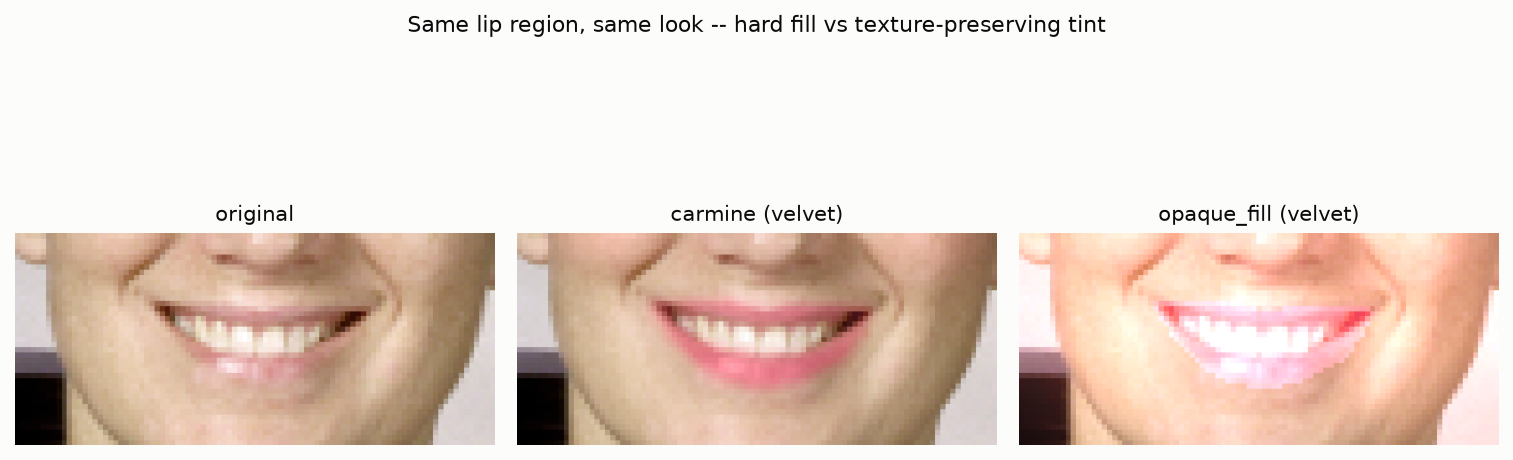
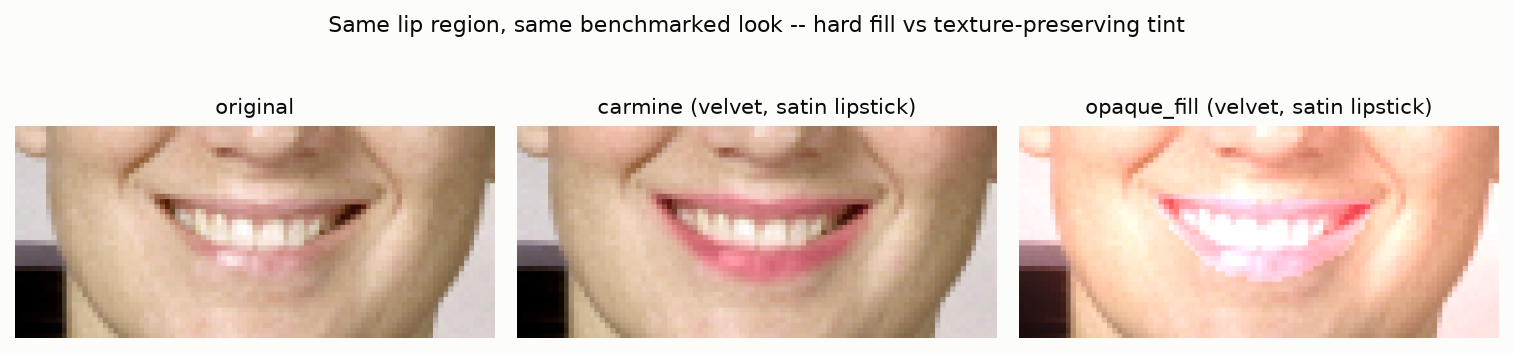
fix: shipped-defaults stability row, diagnostic figure framing

diff --git a/scripts/stability_bench.py b/scripts/stability_bench.py
@@ -41,6 +41,15 @@ drift) still exists and is still unit-tested on constructed cases, but this
 script does not use it for publishing -- it has the same "rewards lag"
 blind spot as raw IoU jitter would, for the same reason.
 
+Two One-Euro configurations are published, not one: `one_euro_best_tuned`
+(the grid-search winner, adopted as `VideoEngine`'s defaults only if it
+clears the 20% jitter-reduction bar) and `one_euro_shipped_defaults` (the
+literal current `OneEuroFilter()` default parameters' own row in the same
+grid). They can differ -- the grid search minimizing jitter doesn't
+necessarily land on whatever's already shipped, and on this clip the two
+tell different stories, which is exactly why both are reported rather than
+just the flattering one.
+
 Usage:
     python scripts/stability_bench.py --out reports
 """
@@ -90,6 +99,16 @@ MIN_CUTOFF_VALUES = [0.5, 1.0, 1.5]
 BETA_VALUES = [0.007, 0.05, 0.2, 0.5]
 DEVIATION_CONSTRAINT_MULTIPLIER = 1.5
 IMPROVEMENT_THRESHOLD_PCT = 20.0
+
+# OneEuroFilter's actual shipped defaults, read from the class itself (not
+# hard-coded) so this can't silently drift out of sync with carmine/filters.py.
+# Must be a point already covered by the grid above.
+_shipped_defaults = OneEuroFilter()
+SHIPPED_MIN_CUTOFF = _shipped_defaults.min_cutoff
+SHIPPED_BETA = _shipped_defaults.beta
+assert SHIPPED_MIN_CUTOFF in MIN_CUTOFF_VALUES and SHIPPED_BETA in BETA_VALUES, (
+    "OneEuroFilter's shipped defaults must be one of the grid-searched points"
+)
 
 
 def _affine_params(t: float, width: int) -> tuple[float, float, float]:
@@ -291,15 +310,54 @@ def main() -> int:
 
     video_ms_per_frame = measure_video_ms_per_frame(frames)
 
+    # `OneEuroFilter`'s actual shipped defaults (see carmine/filters.py) are a
+    # specific point in the same grid we already searched -- surface its own
+    # row explicitly rather than only the best-tuned one, since "one_euro"
+    # unqualified would otherwise read as "what VideoEngine does today",
+    # which the grid-search winner is not.
+    shipped_row = next(
+        g for g in grid_results if g["min_cutoff"] == SHIPPED_MIN_CUTOFF and g["beta"] == SHIPPED_BETA
+    )
+    shipped_deviation_ratio = (
+        shipped_row["deviation_px_iod"] / raw_deviation if raw_deviation > 0 else float("inf")
+    )
+    shipped_jitter_change_pct = (
+        (shipped_row["jitter_px_iod"] - raw_jitter) / raw_jitter * 100.0 if raw_jitter > 0 else 0.0
+    )
+    note += (
+        f" For comparison, OneEuroFilter's actual shipped defaults "
+        f"(min_cutoff={SHIPPED_MIN_CUTOFF}, beta={SHIPPED_BETA}) are worse than doing nothing on "
+        f"this clip: deviation {shipped_deviation_ratio:.1f}x raw, jitter "
+        f"{shipped_jitter_change_pct:+.0f}% vs raw. Smoothing is therefore most useful as an "
+        "opt-in for genuinely jittery cameras, not a free win applied blindly -- on a clip this "
+        "clean, the shipped defaults actively hurt tracking accuracy."
+    )
+
+    ground_truth_caveat = (
+        "ground truth is itself anchored to a real (noisy) frame-0 detection, not a synthetic "
+        "exact position, so the absolute deviation_px_iod numbers above are mildly optimistic "
+        "(frame 0's own detection error isn't counted against anyone); the raw-vs-filtered "
+        "comparison is still fair since every stream shares the same frame-0 anchor."
+    )
+
     stability = {
         "protocol": "ground_truth_affine",
+        "ground_truth_caveat": ground_truth_caveat,
         "raw": {"deviation_px_iod": raw_deviation, "jitter_px_iod": raw_jitter},
-        "one_euro": {
+        "one_euro_best_tuned": {
             "deviation_px_iod": chosen["deviation_px_iod"],
             "jitter_px_iod": chosen["jitter_px_iod"],
             "min_cutoff": chosen["min_cutoff"],
             "beta": chosen["beta"],
             "meets_deviation_constraint": chosen_satisfies_constraint,
+        },
+        "one_euro_shipped_defaults": {
+            "deviation_px_iod": shipped_row["deviation_px_iod"],
+            "jitter_px_iod": shipped_row["jitter_px_iod"],
+            "min_cutoff": SHIPPED_MIN_CUTOFF,
+            "beta": SHIPPED_BETA,
+            "deviation_ratio_vs_raw": shipped_deviation_ratio,
+            "jitter_change_pct_vs_raw": shipped_jitter_change_pct,
         },
         "grid_search": {
             "min_cutoff_values": MIN_CUTOFF_VALUES,
@@ -332,13 +390,19 @@ def main() -> int:
     out_json.write_text(json.dumps(result, indent=2))
     print(f"\nwrote {out_json}")
 
-    print(f"\nraw:      deviation {raw_deviation:.4f} px/iod, jitter {raw_jitter:.4f} px/iod")
+    print(f"\nraw:                    deviation {raw_deviation:.4f} px/iod, jitter {raw_jitter:.4f} px/iod")
     print(
-        f"one_euro: deviation {chosen['deviation_px_iod']:.4f} px/iod, "
+        f"one_euro_best_tuned:    deviation {chosen['deviation_px_iod']:.4f} px/iod, "
         f"jitter {chosen['jitter_px_iod']:.4f} px/iod "
         f"(min_cutoff={chosen['min_cutoff']}, beta={chosen['beta']})"
     )
-    print(f"jitter reduction: {jitter_reduction_pct:+.1f}%  (>= {IMPROVEMENT_THRESHOLD_PCT:.0f}% required to adopt)")
+    print(
+        f"one_euro_shipped_defaults: deviation {shipped_row['deviation_px_iod']:.4f} px/iod "
+        f"({shipped_deviation_ratio:.1f}x raw), jitter {shipped_row['jitter_px_iod']:.4f} px/iod "
+        f"({shipped_jitter_change_pct:+.0f}% vs raw) "
+        f"(min_cutoff={SHIPPED_MIN_CUTOFF}, beta={SHIPPED_BETA})"
+    )
+    print(f"jitter reduction (best tuned): {jitter_reduction_pct:+.1f}%  (>= {IMPROVEMENT_THRESHOLD_PCT:.0f}% required to adopt)")
     print(note)
     print(f"video ms/frame (median): {video_ms_per_frame:.2f}")
     return 0

diff --git a/scripts/make_figures.py b/scripts/make_figures.py
@@ -22,6 +22,7 @@ import numpy as np
 
 ROOT = Path(__file__).resolve().parents[1]
 sys.path.insert(0, str(ROOT / "src"))
+sys.path.insert(0, str(Path(__file__).resolve().parent))
 
 from skimage import data  # noqa: E402
 
@@ -29,6 +30,8 @@ from carmine import baselines, regions  # noqa: E402
 from carmine.engine import apply_look  # noqa: E402
 from carmine.landmarks import FaceLandmarker  # noqa: E402
 from carmine.look import PRESETS  # noqa: E402
+
+from benchmark import benchmark_look  # noqa: E402
 
 FIGDIR = ROOT / "reports" / "figures"
 
@@ -52,19 +55,25 @@ LABELS = {
     "untrained_gan": "Untrained GAN",
     "carmine": "This engine",
 }
+# Order: the two containment metrics first, then lip_luminance_shift in the
+# primary (top-right) slot -- it's the metric that actually distinguishes a
+# hard fill from a soft tint by magnitude, not just direction -- followed by
+# the two blind-spot-prone/diagnostic metrics and identity last.
 METRICS = [
     "pigment_on_target",
     "background_untouched",
+    "lip_luminance_shift",
     "lip_texture_kept",
     "lip_detail_retention",
-    "lip_luminance_shift",
     "identity_ssim",
 ]
 METRIC_TITLES = {
     "pigment_on_target": "Edit energy inside legitimate product regions",
     "background_untouched": "Background pixels left bit-identical",
     "lip_texture_kept": "Lip texture preserved (lightness corr.)",
-    "lip_detail_retention": "Lip high-freq. detail retained (after / before)",
+    "lip_detail_retention": (
+        "Lip detail ratio (diagnostic -- additive fills\npreserve highpass until saturation)"
+    ),
     "lip_luminance_shift": "Lip brightness shift, |ΔL| (lower is better)",
     "identity_ssim": "Identity SSIM vs input",
 }
@@ -157,7 +166,11 @@ def fig_presets_demo(landmarker: FaceLandmarker) -> None:
 
 
 def fig_opacity_compare(landmarker: FaceLandmarker) -> None:
-    """Lip-region crops: original vs carmine vs opaque_fill, same velvet look.
+    """Lip-region crops: original vs carmine vs opaque_fill, the exact
+    benchmarked configuration (velvet + lipstick finish forced to satin +
+    smoothing forced to 0 -- see `benchmark_look()`), so this figure shows
+    the same setup the `lip_detail_retention` / `lip_luminance_shift`
+    numbers were measured under, not a look that merely looks similar.
 
     `pigment_on_target` and `lip_texture_kept` can't tell a hard fill from a
     soft tint when both share the same, correctly-indexed lip region (see
@@ -167,7 +180,7 @@ def fig_opacity_compare(landmarker: FaceLandmarker) -> None:
     """
     astro = cv2.cvtColor(data.astronaut(), cv2.COLOR_RGB2BGR)
     lm = landmarker.detect(astro)
-    look = PRESETS["velvet"]
+    look = benchmark_look()
 
     carmine_out = apply_look(astro, look, landmarks=lm)
     opaque_out = baselines.opaque_fill(astro, lm, look)
@@ -190,18 +203,18 @@ def fig_opacity_compare(landmarker: FaceLandmarker) -> None:
         tile = crop(img)
         h, w = tile.shape[:2]
         tiles.append(cv2.resize(tile, (int(w * height / h), height), interpolation=cv2.INTER_NEAREST))
-    titles = ["original", "carmine (velvet)", "opaque_fill (velvet)"]
+    titles = ["original", "carmine (velvet, satin lipstick)", "opaque_fill (velvet, satin lipstick)"]
 
-    fig, axes = plt.subplots(1, 3, figsize=(3.4 * 3, 3.8))
+    fig, axes = plt.subplots(1, 3, figsize=(3.4 * 3, 2.5))
     for ax, tile, title in zip(axes, tiles, titles):
         ax.imshow(cv2.cvtColor(tile, cv2.COLOR_BGR2RGB))
         ax.set_title(title, fontsize=10, color=INK)
         ax.axis("off")
     fig.suptitle(
-        "Same lip region, same look -- hard fill vs texture-preserving tint",
+        "Same lip region, same benchmarked look -- hard fill vs texture-preserving tint",
         fontsize=10.5,
         color=INK,
-        y=1.03,
+        y=1.02,
     )
     fig.tight_layout()
     fig.savefig(FIGDIR / "opacity_compare.png", bbox_inches="tight")

diff --git a/tests/test_metrics.py b/tests/test_metrics.py
@@ -112,6 +112,16 @@ class TestLipDetailRetention:
         with pytest.raises(ValueError):
             metrics.lip_detail_retention(before, before.copy(), np.zeros((10, 10), dtype=np.float32))
 
+    def test_degenerate_flat_before_raises(self):
+        # A before-image with no high-frequency detail at all inside the
+        # mask makes the ratio undefined (0/0-shaped), so this should raise
+        # rather than silently return 0.0 or inf.
+        before = _flat_image((20, 20), (100, 100, 100))
+        mask = np.ones((20, 20), dtype=np.float32)
+        after = _textured_patch((20, 20), seed=42)
+        with pytest.raises(ValueError):
+            metrics.lip_detail_retention(before, after, mask)
+
 
 class TestLipLuminanceShift:
     def test_no_change_scores_zero(self):
@@ -308,13 +318,25 @@ class TestBenchmarkJsonSchema:
     def test_stability_section_schema(self, bench):
         stability = bench["stability"]
         assert stability["protocol"] == "ground_truth_affine"
+        assert isinstance(stability["ground_truth_caveat"], str) and stability["ground_truth_caveat"]
 
-        for variant in ("raw", "one_euro"):
+        for variant in ("raw", "one_euro_best_tuned", "one_euro_shipped_defaults"):
             entry = stability[variant]
             assert np.isfinite(entry["deviation_px_iod"])
             assert entry["deviation_px_iod"] >= 0.0
             assert np.isfinite(entry["jitter_px_iod"])
             assert entry["jitter_px_iod"] >= 0.0
+
+        shipped = stability["one_euro_shipped_defaults"]
+        assert np.isfinite(shipped["deviation_ratio_vs_raw"])
+        assert np.isfinite(shipped["jitter_change_pct_vs_raw"])
+        # Pins the actual measured reality this fix surfaced: the shipped
+        # OneEuroFilter defaults are worse than doing nothing on this clip.
+        # If a future change makes them genuinely better, this assertion
+        # (and the note text) need to be revisited deliberately, not just
+        # deleted to make the suite pass.
+        assert shipped["deviation_ratio_vs_raw"] > 1.0
+        assert shipped["jitter_change_pct_vs_raw"] > 0.0
 
         grid = stability["grid_search"]
         expected_n = len(grid["min_cutoff_values"]) * len(grid["beta_values"])
@@ -336,6 +358,7 @@ class TestBenchmarkJsonSchema:
 
         assert np.isfinite(stability["jitter_reduction_pct"])
         assert isinstance(stability["note"], str) and stability["note"]
+        assert "shipped defaults" in stability["note"]
         assert np.isfinite(stability["video_ms_per_frame"])
         assert stability["video_ms_per_frame"] > 0.0
         assert stability["n_frames_with_face"] >= 2

diff --git a/scripts/benchmark.py b/scripts/benchmark.py
@@ -190,6 +190,21 @@ def _method_thunks(image: np.ndarray, landmarks: np.ndarray, look):
     }
 
 
+def benchmark_look():
+    """The exact `Look` every method is scored under: velvet, with lipstick
+    finish forced to satin and smoothing forced to 0 (see meta.finish_override
+    / meta.smoothing_override in the written JSON for the rationale). Shared
+    with `make_figures.py` so the opacity-comparison figure shows the same
+    configuration the numbers were measured under, not a look that merely
+    looks similar.
+    """
+    return dataclasses.replace(
+        PRESETS["velvet"],
+        lipstick=dataclasses.replace(PRESETS["velvet"].lipstick, finish="satin"),
+        smoothing=0.0,
+    )
+
+
 def main() -> int:
     parser = argparse.ArgumentParser(description=__doc__)
     parser.add_argument("--dataset", type=Path, default=ROOT / "data" / "no_makeup")
@@ -203,11 +218,7 @@ def main() -> int:
         parser.error(f"dataset directory not found: {args.dataset}")
 
     landmarker = FaceLandmarker()
-    benchmark_look = dataclasses.replace(
-        PRESETS["velvet"],
-        lipstick=dataclasses.replace(PRESETS["velvet"].lipstick, finish="satin"),
-        smoothing=0.0,
-    )
+    look = benchmark_look()
 
     per_image: dict[str, list[dict]] = {m: [] for m in METHODS}
     runtimes: dict[str, list[float]] = {m: [] for m in METHODS}
@@ -229,7 +240,7 @@ def main() -> int:
             skipped.append({"name": path.name, "reason": "no face detected"})
             continue
 
-        thunks = _method_thunks(image, landmarks, benchmark_look)
+        thunks = _method_thunks(image, landmarks, look)
         for method in METHODS:
             t0 = time.perf_counter()
             out = thunks[method]()

diff --git a/src/carmine/metrics.py b/src/carmine/metrics.py
@@ -198,7 +198,11 @@ def lip_detail_retention(before: np.ndarray, after: np.ndarray, lip_mask: np.nda
         possible if a method adds noise/contrast rather than removing it.
 
     Raises:
-        ValueError: If `lip_mask` selects no pixels.
+        ValueError: If `lip_mask` selects no pixels, or if `before` has no
+            measurable high-frequency detail inside the mask to begin with
+            (a degenerate, already-flat region) -- the ratio is undefined
+            when there's nothing to retain, so this raises rather than
+            silently returning a value that looks like a real measurement.
     """
     after = _resize_to_match(before, after)
     inside = np.asarray(lip_mask) > 0.5
@@ -208,7 +212,11 @@ def lip_detail_retention(before: np.ndarray, after: np.ndarray, lip_mask: np.nda
     detail_after = _highpass_l(after)[inside]
     std_before = float(detail_before.std())
     if std_before < 1e-6:
-        return 0.0 if float(detail_after.std()) < 1e-6 else float("inf")
+        raise ValueError(
+            "before has no measurable high-frequency detail inside lip_mask "
+            f"(std={std_before:.2e}); lip_detail_retention is undefined for a "
+            "degenerate, already-flat input region"
+        )
     return float(detail_after.std() / std_before)
 
 
